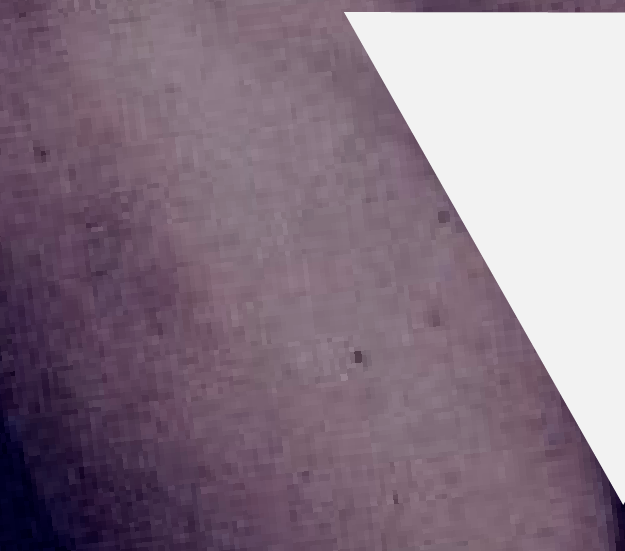
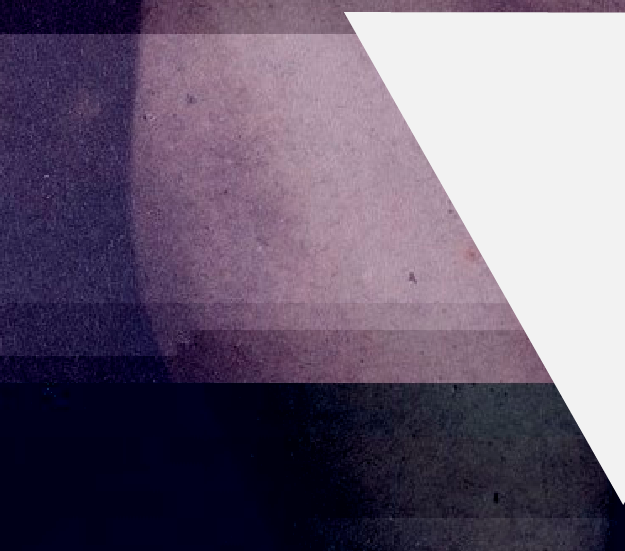
more images added

diff --git a/style.css b/style.css
@@ -1,11 +1,14 @@
-body { margin: 0px; }
+body { 
+    margin: 0px; 
+    background-color: #191919;
+}
 
 .container {
 /*    transform: scale(1);*/
     position: relative;
     width: 750px;
     height: 924px;
-    background-color: #f5f5f5;
+/*    background-color: #191919;*/
     margin: 0px auto 0px auto;
 }
 .container a {
@@ -71,7 +74,7 @@ body { margin: 0px; }
     top: 132px;
     width: 150px;
     height: 132px;
-    background-color: purple;
+    background-image: url(images/image_6.png);
     clip-path: polygon(0px 0px, 150px 0px, 75px 132px);
 }
 
@@ -119,7 +122,7 @@ body { margin: 0px; }
     top: 264px;
     width: 75px;
     height: 66px;
-    background-color: black;
+    background-image: url(images/image_11.png);
     clip-path: polygon(0px 66px, 37.5px 0px, 75px 66px);
 }
 
@@ -128,7 +131,7 @@ body { margin: 0px; }
     top: 330px;
     width: 75px;
     height: 66px;
-    background-color: black;
+    background-image: url(images/image_12.png);
     clip-path: polygon(0px 66px, 37.5px 0px, 75px 66px);
 }
 
@@ -137,7 +140,7 @@ body { margin: 0px; }
     top: 330px;
     width: 75px;
     height: 66px;
-    background-color: black;
+    background-image: url(images/image_13.png);
     clip-path: polygon(0px 66px, 37.5px 0px, 75px 66px);
 }
 
@@ -146,7 +149,7 @@ body { margin: 0px; }
     top: 330px;
     width: 75px;
     height: 66px;
-    background-color: cyan;
+    background-image: url(images/image_14.png);
     clip-path: polygon(0px 0px, 37.5px 66px, 75px 0px);
 }
 
@@ -155,7 +158,7 @@ body { margin: 0px; }
     top: 264px;
     width: 150px;
     height: 132px;
-    background-color: purple;
+    background-image: url(images/image_15.png);
     clip-path: polygon(0px 0px, 150px 0px, 75px 132px);
 }
 .shape16 {
@@ -201,7 +204,8 @@ body { margin: 0px; }
     width: 225px;
     height: 264px;
     background-image: url(images/image_20.png);
-    clip-path: polygon(75px 0px, 225px 0px, 150px 132px, 225px 264px, 75px 264px, 0px 132px)
+    clip-path: polygon(75px 0px, 225px 0px, 150px 132px, 225px 264px, 75px 264px, 0px 132px);
+    z-index: 2;
 }
 
 .shape21 {
@@ -218,7 +222,7 @@ body { margin: 0px; }
     top: 396px;
     width: 375px;
     height: 132px;
-    background-color: navy;
+    background-image: url(images/image_22.png);
     clip-path: polygon(0px 0px, 300px 0px, 375px 132px, 75px 132px);
 }
 
@@ -227,8 +231,9 @@ body { margin: 0px; }
     top: 528px;
     width: 150px;
     height: 264px;
-    background-color: orange;
-    clip-path: polygon(0px 132px, 75px 0px, 150px 132px, 75px 264px);
+    background-image: url(images/image_23.png);
+/*    clip-path: polygon(0px 132px, 75px 0px, 150px 132px, 75px 264px);*/
+    clip-path: polygon(0px 0px, 0px 264px, 75px 264px, 150px 132px, 75px 0px);
 }
 
 .shape24 {
@@ -256,7 +261,7 @@ body { margin: 0px; }
     top: 528px;
     width: 75px;
     height: 66px;
-    background-color: cyan;
+    background-image: url(images/image_26.png);
     clip-path: polygon(0px 0px, 37.5px 66px, 75px 0px);
 }
 
@@ -265,7 +270,7 @@ body { margin: 0px; }
     top: 594px;
     width: 75px;
     height: 66px;
-    background-color: cyan;
+    background-image: url(images/image_27.png);
     clip-path: polygon(0px 0px, 37.5px 66px, 75px 0px);
 }
 
@@ -275,7 +280,7 @@ body { margin: 0px; }
     top: 528px;
     width: 225px;
     height: 396px;
-    background-color: brown;
+    background-image: url(images/image_28.png); 
     clip-path: polygon(150px 0px, 225px 132px, 75px 396px, 0px 264px);
 }
 
@@ -293,7 +298,7 @@ body { margin: 0px; }
     top: 792px;
     width: 225px;
     height: 132px;
-    background-color: navy;
+    background-image: url(images/image_30.png);    
     clip-path: polygon(0px 0px, 150px 0px, 225px 132px, 75px 132px);
 }
 
@@ -327,17 +332,14 @@ body { margin: 0px; }
     clip-path: polygon(0px 132px, 75px 0px, 150px 132px);
 }
 
-
-
-
-
 .shape34 {
     left: 450px;
     top: 528px;
     width: 150px;
     height: 264px;
-    background-color: brown;
+    background-image: url(images/image_34.png);
     clip-path: polygon(0px 132px, 75px 0px, 150px 132px, 75px 264px);
+    z-index: 2;
 }
 
 .shape35 {
@@ -361,11 +363,15 @@ body { margin: 0px; }
 .shape37 {
     left: 675px;
     top: 462px;
-    width: 75px;
+    width: 118px;
     height: 132px;
-    background-color: peachpuff;
-    clip-path: polygon(37.5px 0px, 0px 66px, 37.5px 132px, 75px 66px);
+    background-image: url(images/image_37.png);
+    clip-path: polygon(37.5px 0px, 0px 66px, 37.5px 132px, 75px 66px, 118px 66px, 118px 0px);
 }
+
+
+
+
 
 
 
@@ -374,7 +380,7 @@ body { margin: 0px; }
     top: 528px;
     width: 225px;
     height: 264px;
-    background-color: aquamarine;
+    background-image: url(images/image_38.png);
     clip-path: polygon(0px 0px, 150px 0px, 225px 132px, 150px 264px);
 }
 
@@ -384,10 +390,19 @@ body { margin: 0px; }
     top: 858px;
     width: 75px;
     height: 66px;
-    background-color: dodgerblue;
+    background-image: url(images/image_39.png);
     clip-path: polygon(0px 0px, 37.5px 66px, 75px 0px);
 }
 
+
+.shape40 {
+    left: 225px;
+    top: 396px;
+    width: 300px;
+    height: 396px;
+    background-image: url(images/image_40.png);
+/*    clip-path: polygon(225px 0px, 300px 132px, 225px 264px, 300px 396px, 0px 396px, 75px 264px, 0px 132px, 150px 132px);*/
+}
 
 
 

diff --git a/index.html b/index.html
@@ -64,6 +64,7 @@
 	<div class="shape37"></div>
 	<div class="shape38"></div>
 	<div class="shape39"></div>
+	<div class="shape40"></div>
 </div>
 
 </body>
